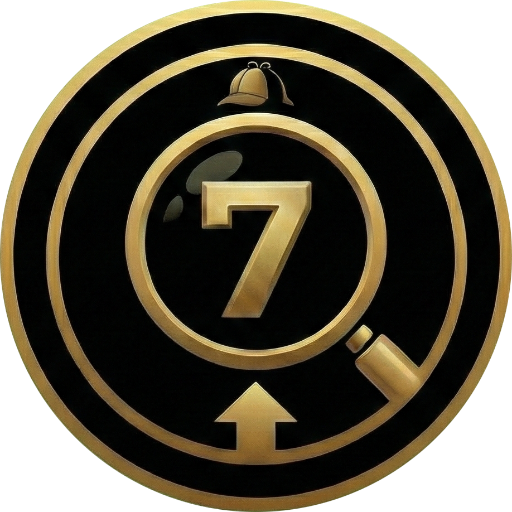
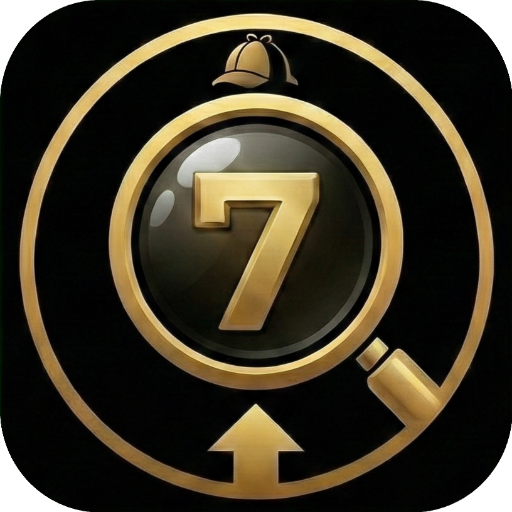
style: 헤더 로고 이미지 적용 및 파비콘 설정 최적화

diff --git a/src/shared/components/layout/header.tsx b/src/shared/components/layout/header.tsx
@@ -162,9 +162,13 @@ export function Header() {
               href="/"
               className="font-bold text-xl flex items-center gap-2 absolute left-1/2 -translate-x-1/2 xl:static xl:left-auto xl:translate-x-0"
             >
-              <div className="hidden xl:flex w-8 h-8 bg-primary rounded-lg items-center justify-center text-primary-foreground">
-                D
-              </div>
+              <img
+                src="/android-chrome-192x192.png"
+                alt="로또탐정 로고"
+                width={32}
+                height={32}
+                className="hidden xl:block rounded-lg object-contain"
+              />
               <span className="hidden sm:inline-block">로또탐정</span>
               <span className="sm:hidden">로또탐정</span>
             </Link>
@@ -423,9 +427,13 @@ export function Header() {
             className="font-bold text-xl flex items-center gap-2"
             onClick={() => setIsMobileMenuOpen(false)}
           >
-            <div className="w-8 h-8 bg-primary rounded-lg flex items-center justify-center text-primary-foreground">
-              D
-            </div>
+            <img
+              src="/android-chrome-192x192.png"
+              alt="로또탐정 로고"
+              width={32}
+              height={32}
+              className="rounded-lg object-contain"
+            />
             로또탐정
           </Link>
           <Button
